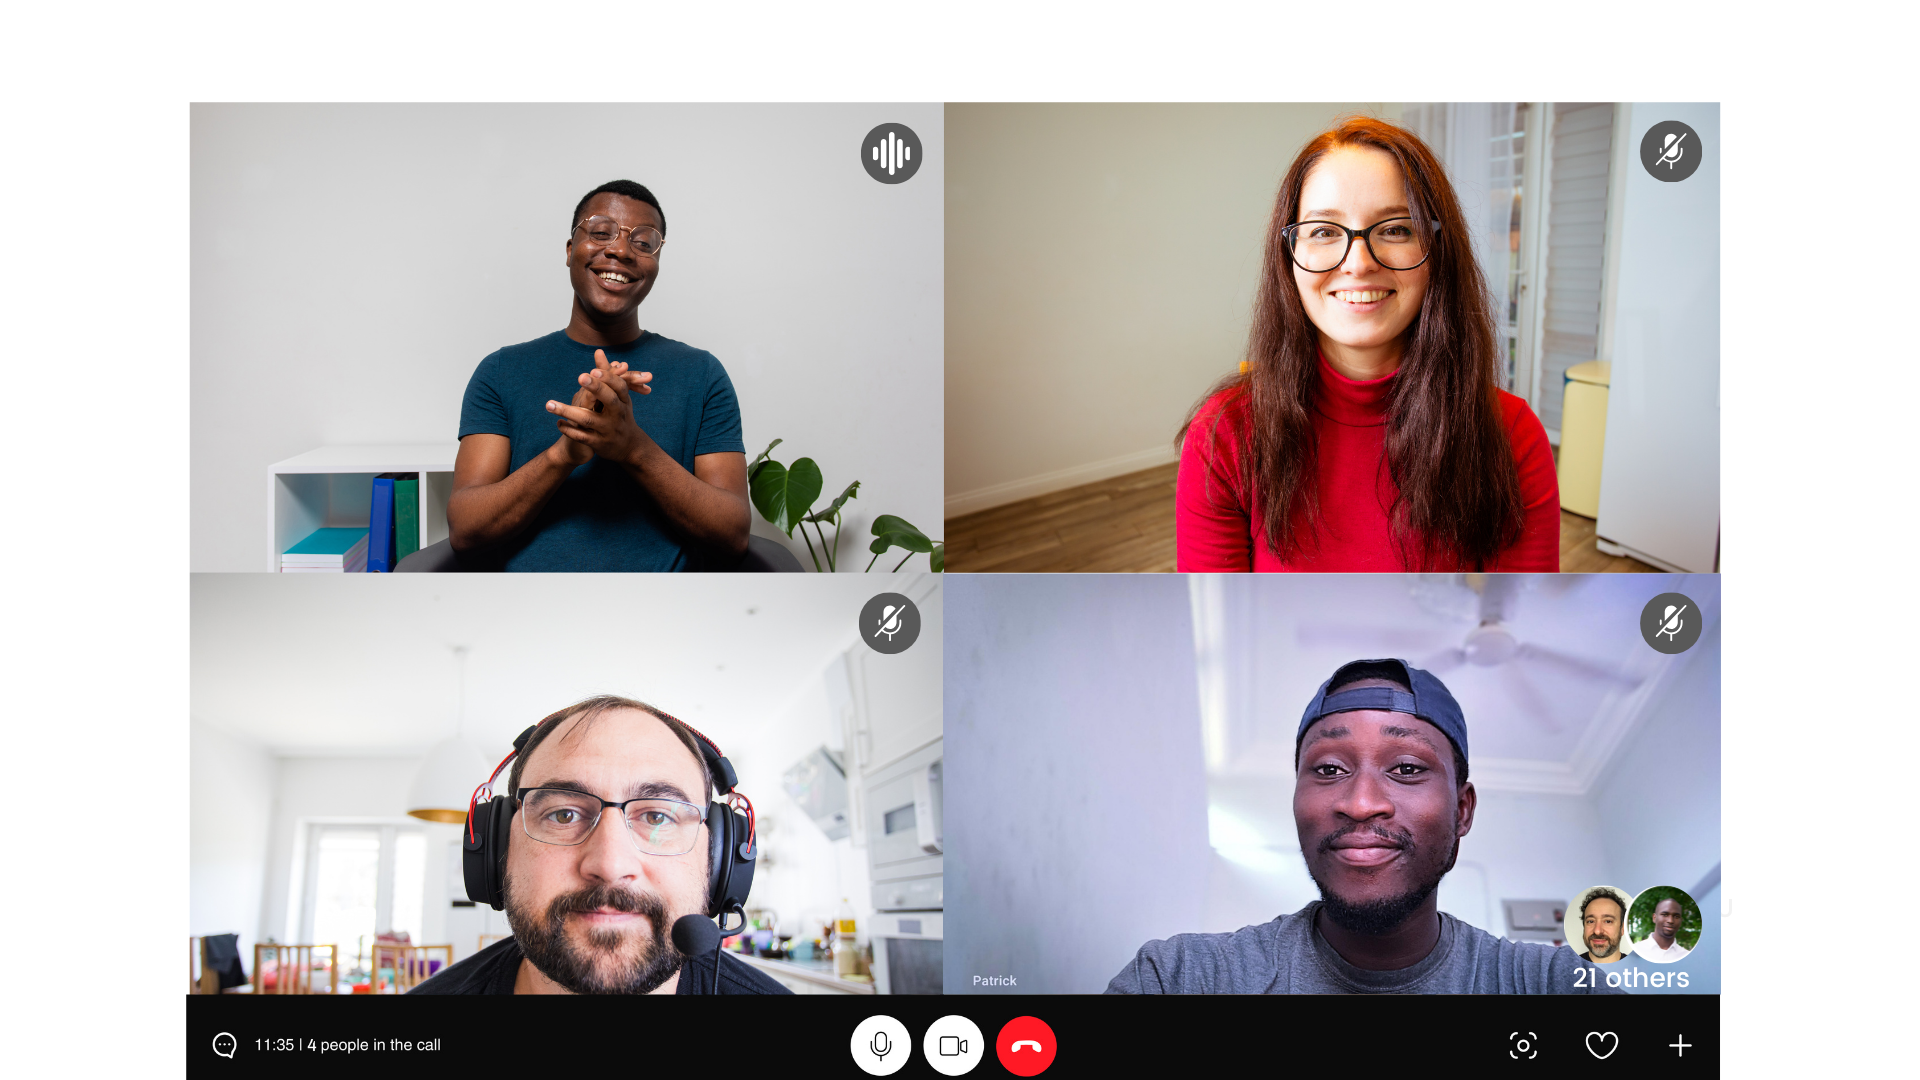
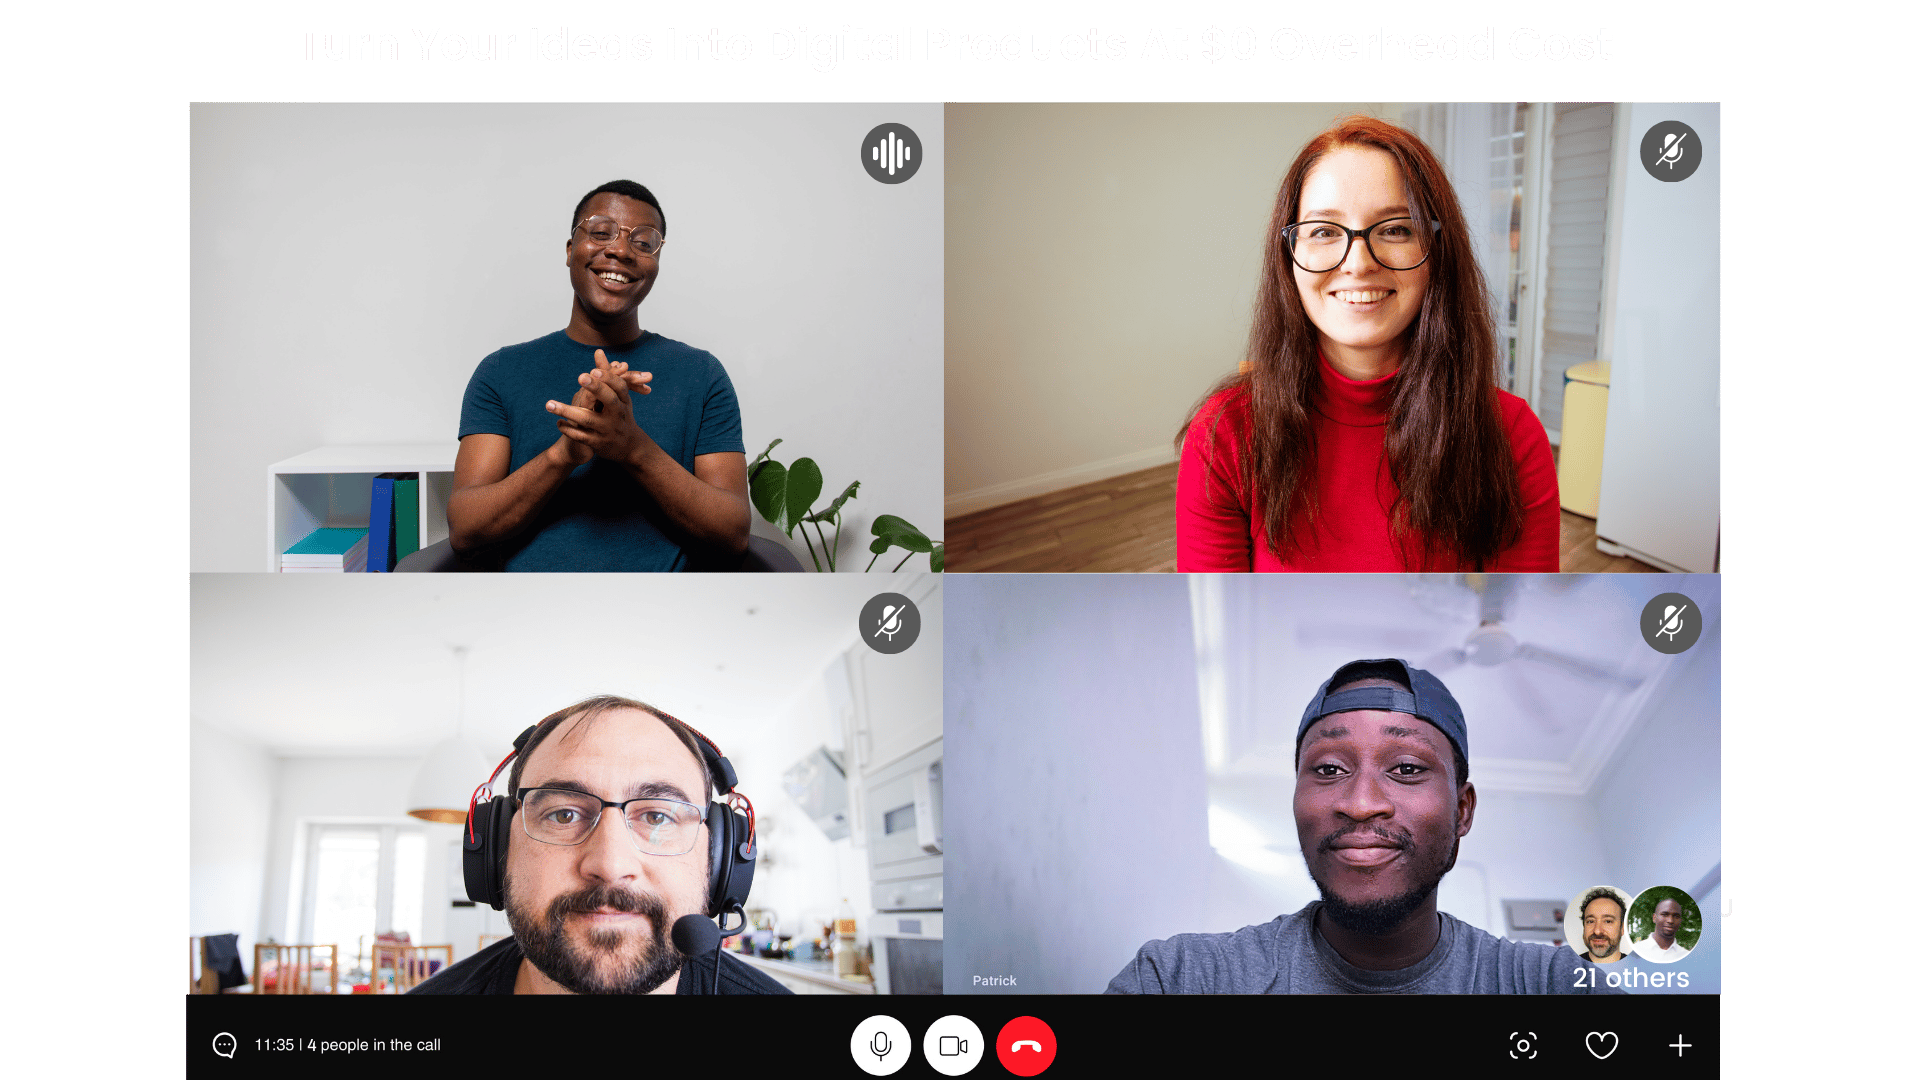
11-08-2026

diff --git a/_includes/business/who.html b/_includes/business/who.html
@@ -1,23 +1,33 @@
-<section class="section column is-8 is-offset-2">
-  <div class="container">
-    <div class="has-text-centered mb-6">
-      <p
-        class="is-uppercase has-text-weight-bold has-text-warning mb-2"
-        style="letter-spacing: 2px"
-      >
-        ARE YOU OVERWHELMED?
-      </p>
-      <h1 class="title is-2 has-text-white has-text-weight-bold mb-2">
-        Who Is This For?
-      </h1>
-      <p class="is-size-5 has-text-grey-light">It doesn't have to be complicated.</p>
+<section class="section">
+  <div class="who-heading-band py-6">
+    <div class="container">
+      <div class="columns is-centered">
+        <div class="column is-8">
+          <div class="has-text-centered mb-6">
+            <p
+              class="is-uppercase has-text-weight-bold has-text-warning mb-2"
+              style="letter-spacing: 2px"
+            >
+              ARE YOU OVERWHELMED?
+            </p>
+            <h1 class="title is-2 has-text-white has-text-weight-bold mb-2">
+              Who Is This For?
+            </h1>
+            <p class="is-size-5 has-text-grey-light">It doesn't have to be complicated.</p>
+          </div>
+        </div>
+      </div>
     </div>
-    <div class="card" style="position: relative; padding-top: 1rem">
-      <!-- Top Center Image -->
+  </div>
 
-      <!-- Card Content -->
-      <div class="card-content">
-        <div class="content article-body is-size-5">
+  <div class="container">
+    <div class="column is-8 is-offset-2">
+      <div class="card" style="position: relative; padding-top: 1rem">
+        <!-- Top Center Image -->
+
+        <!-- Card Content -->
+        <div class="card-content">
+          <div class="content article-body is-size-5">
           <p>I've taught over 2000+ creators.</p>
 
           <p>
@@ -40,7 +50,7 @@
             But the systems and strategies that gets results are what most creators struggle with.
           </p>
 
-          <p>This course is for you if:</p>
+          <p>This program is for you if:</p>
 
           <ul>
             <li>You don't know what skills to learn that allow you to turn your creative work into a sustainable income.</li>
@@ -49,14 +59,14 @@
             <li>You don't know what type of product or service to sell that will bring in the most revenue.</li>
           </ul>
 
-          <p><strong>In this one-person business primer course, you will learn:</strong></p>
+          <p><strong>In this one-person business program, you will learn:</strong></p>
 
           <ul>
             <li><strong>The Digital Economy</strong> – A solidified understanding of the new digital economy and how to take advantage of it.</li>
             <li><strong>The Creator Mindset</strong> – How to remove your money-dependence from your employer to earn for yourself.</li>
             <li><strong>Skill & Curiosities</strong> – How to blend your interests in a way that makes you unique.</li>
             <li><strong>The Evergreen Markets</strong> – How to position your content and products for maximum engagement and sales.</li>
-            <li><strong>Products & Services</strong> – The best thing to sell at the start of your journey to make an income (relatively) fast.</li>
+            <li><strong>Products & Services</strong> – The best thing to build & sell at the start of your journey to make an income (relatively) fast.</li>
             <li><strong>Distribution Networks</strong> – How to get in front of more people to build an audience and find customers.</li>
             <li><strong>Awareness & Attention</strong> – Learn to capture attention no matter who is reading your content.</li>
             <li><strong>The Greatest Skill</strong> – Learn ethical persuasion and influence so you don't have to scam, cheat, or deceive your audience.</li>
@@ -71,9 +81,7 @@
     <button class="container has-text-centered">
         <a href="https://selar.com/business-bootcamp" class="button is-primary hero-cta is-medium">
                 <span class="icon"><i class="fa-solid fa-arrow-down"></i></span>
-                <span>Enroll In Course</span>
+                <span>Join Today</span>
               </a>
     </button>
     </div>
-
-</section>

diff --git a/_includes/business/launch.html b/_includes/business/launch.html
@@ -1,0 +1,77 @@
+<section class="section column is-8 is-offset-2">
+    <div class="container">
+        <div class="has-text-centered mb-6">
+            <p class="is-uppercase has-text-weight-bold has-text-warning mb-2" style="letter-spacing: 2px">
+                THE ONLINE OPPORTUNITY
+            </p>
+            <h1 class="title is-2 has-text-white has-text-weight-bold mb-2">
+                Introducing: The One-Person Business
+            </h1>
+            <p class="is-size-5 has-text-grey-light">
+                Unblock limiting beliefs.
+            </p>
+        </div>
+        <div class="card" style="position: relative; padding-top: 1rem">
+            <!-- Top Center Image -->
+
+            <!-- Card Content -->
+            <div class="card-content">
+                <div class="content article-body is-size-5">
+                    <p>We don't live in the industrial age anymore.</p>
+
+
+                    <p>
+                        There are more options than the outdated path of <i>"go to school, get a job, maybe start a
+                            local physical business that costs tens of thousands along the way, and retire at 65."</i>
+                    </p>
+
+                    <p>You have access to the internet for goodness sake.</p>
+
+                    <p>You have access to internet courses where you can learn almost anything much faster than you
+                        could with a traditional education.</p>
+
+                    <p>And luckily, you're at that point in history where there are so many tools out there.</p>
+
+                    <p>You can whip up a website with the click of a button.</p>
+
+                    <p>(Which used to take 10 web developers to create).</p>
+
+                    <p>You can post a random idea to social media and have 10,000 people see it (on the _very_ low end).
+                    </p>
+
+                    <p>And if you have a product or service, all it takes is having a tiny fraction of those people pay
+                        you for your skillset and knowledge.</p>
+
+                    <p>And that's just one social post! Imagine if you had a streamlined system to focus on every
+                        morning.</p>
+
+                    <p><b>In The One-Person Business LaunchPad, we are focused on making your first $5K.</b></p>
+
+                    <p>That's getting a measly 5 people to purchase a $1000 service.</p>
+
+                    <p>And yes, I help you create that too (based around your own skills and interests).</p>
+
+                    <p>Here's what you receive that makes it very difficult to fail:</p>
+
+
+                    <p>✅ The fastest way to setup your store, website, blog, and newsletter all at once.</p>
+                    <p>✅ The fundamentals of online business. In other words, we answer the question, "How do I
+                      _actually_ make money outside of a job?"</p>
+                    <p>✅ The 3-point marketing strategy so you know exactly how to get customers (it's like a $40,000
+                      marketing degree condensed into 3 sentences.)</p>
+                    <p>✅ A one-page business plan so you don't get stuck after finishing this course.</p>
+                    <p>✅ Learn a streamlined style of digital marketing that you can repeat over and over again (no
+                      matter what you decide to sell from freelance services to physical products or digital
+                      products).</p>
+                    <p>✅ A complete breakdown of what to sell, how to sell it, and where to sell it (since the internet
+                      can get confusing).</p>
+                    <p>✅ Make your first $5-$10K with a "micro offer" that you can start selling immediate</p>
+                    <p>✅ Make your first $5-$10K with a "micro offer" that you can start selling immediately.</p>
+                    <p>✅ How to turn your interests into a valuable offer that people <i>want to pay you for</i></p>
+
+
+                </div>
+            </div>
+        </div>
+    </div>
+</section>

diff --git a/_includes/business/create.html b/_includes/business/create.html
@@ -1,0 +1,83 @@
+<section class="section has-background-black has-text-white">
+  <div class="container">
+    <!-- Intro Text -->
+    <div class="has-text-centered mb-6">
+      <p class="is-uppercase has-text-weight-bold has-text-warning mb-2" style="letter-spacing: 2px;">
+        CREATE OR BE CREATED
+      </p>
+      <h1 class="title is-2 has-text-white has-text-weight-bold mb-2">
+        If You Don't Have A Product, <br> You Don't Control Your Income
+      </h1>
+      <p class="is-size-5 has-text-grey-light">
+        A digital-first approach.
+      </p>
+    </div>
+
+
+
+    <!-- RIGHT: Bio -->
+    <div class="content article-body column is-8 is-offset-2 is-size-5">
+
+      <p><b>"I want to start a business, but which one do I start? And how do I start it?"</b></p>
+
+      <p>I get it.</p>
+<p>When you think of starting a business, so many questions start flooding in.</p>
+
+      <p>When I realized that a 9-5 wasn't for me, I did everything in my power to avoid getting one.</p>
+
+      <p>But that meant I didn't have an <i>employer to give me a paycheck every month. It was all on me now. Every part of the business. The thought of that overwhelmed me.</i></p>
+
+      <p>Do I need money to start?</p>
+
+      <p>Wtf is an LLC?</p>
+
+      <p>Taxes? Oh god.</p>
+
+      <p>Can I do something related to my interests?</p>
+Or should I sell out now and try to make money fast?.</p>
+
+      <p>I would latch onto any quick and "profitable" business model I could find.</p>
+
+      <p>I tried dropshipping.</p>
+
+      <p>I tried a Facebook ads agency.</p>
+
+      <p>I tried a content marketing and SEO agency.</p>
+
+      <p>I tried freelance photography and editing.</p>
+
+      <p>I tried digital art on social media.</p>
+
+      <p>Each and every one of those businesses failed.</p>
+
+      <p>(Well, they didn't really fail, I just stopped.)</p>
+
+      <p>But the skills I stacked during that time made it click for me:</p>
+
+      <p><i>All successful businesses have 2 things in common:</i></p>
+
+        <h4 class="has-text-white">1) They have somewhere to generate traffic.</h4>
+
+      <p>This could be anything from social media to paid ads to podcast sponsorships or posting in Facebook groups.</p>
+
+
+        <h4 class="has-text-white">2) They have somewhere to host and accept payment for a product or service.</h4>
+
+        <p>This could be a Shopify store, an invoice software for freelance clients, or something like a course platform.</p>
+
+        <p>But that's still super broad and confusing.</p>
+
+        <p><i>The question now is, what can you start doing right now</i></p>
+
+        <p>As one person.</p>
+
+        <p>Without investing your life savings.</p>
+
+        <p>In a way that works with any skill or interest…</p>
+
+        <p>And can be scaled as far as you want to go?</p>
+
+    </div>
+
+  </div>
+</section>

diff --git a/_includes/business/bonuses.html b/_includes/business/bonuses.html
@@ -1,0 +1,35 @@
+<section class="section has-background-black has-text-white">
+
+    <!-- RIGHT: Bio -->
+    <div class="content article-body column is-8 is-offset-2 is-size-5">
+
+        <h2 class="has-text-white "><b>And of course, a few bonues:</b></h2>
+
+        <p>⚡ Templates to write your first 10 social posts, 3 threads, and 1 newsletter (that attract and gain
+            customers).</p>
+        <p>When you think of starting a business, so many questions start flooding in.</p>
+
+        <p>⚡ Templates for your marketing strategy and offer creation that you can refer to at any time.</p>
+
+        <p>⚡ Tutorials and walkthrough of the software you will be using to accept payment for what you plan to sell.
+        </p>
+
+        <p>All-in-all…</p>
+
+        <p>I created this course for my past self.</p>
+
+        <p>This is the course I wish I had so I didn't waste my time failing at 7 business models that didn't fulfill
+            me.</p>
+
+        <p>This is what I would do if I wanted to fast-track my way to $5K and beyond.</p>
+        <p>If you want to stop living in your head wondering when and if you should start the damn thing, maybe now is
+            the perfect opportunity.</p>
+
+        <p>Enroll below when you're ready.</p>
+
+        <a href="#" class="button is-primary is-medium">
+                Enroll In Bootcamp
+              </a>
+
+    </div>
+</section>

diff --git a/_includes/business/hero.html b/_includes/business/hero.html
@@ -8,10 +8,11 @@
               The One-Person Business
             </p>
             <h1 class="title is-2 has-text-white" style="line-height: 1.3;">
-              Start Your Creator Business Without Feeling Lost & Overwhelmed
+              Start Your One-Person Business Without Feeling Lost & Overwhelmed
             </h1>
             <p class="subtitle is-5 has-text-white" style="line-height: 1.5;">
-              Learn the basics of branding, persuasion, writing, and marketing in a free primer course for the future of work.
+              For those that have skills, interests, and passions but struggle to build a low-effort high-income in the
+              age of opportunity.
             </p>
 
             <div class="mt-5 buttons is-centered-touch is-flex-wrap-wrap">
@@ -28,7 +29,8 @@
         <div class="column is-6-desktop is-full-mobile">
           <div class="has-text-centered">
             <figure class="image" style="max-width: 520px; margin: 0 auto;">
-              <img src="/assets/img/oneperson-business.png" alt="The One-Person Business" style="width: 100%; height: auto; object-fit: cover;" />
+              <img src="/assets/img/oneperson-business.png" alt="The One-Person Business"
+                style="width: 100%; height: auto; object-fit: cover;" />
             </figure>
           </div>
         </div>

diff --git a/pages/business.md b/pages/business.md
@@ -6,3 +6,6 @@ permalink: /business/
 
 {% include business/hero.html %}
 {% include business/who.html %}
+{% include business/create.html %}
+{% include business/launch.html %}
+{% include business/bonuses.html %}
